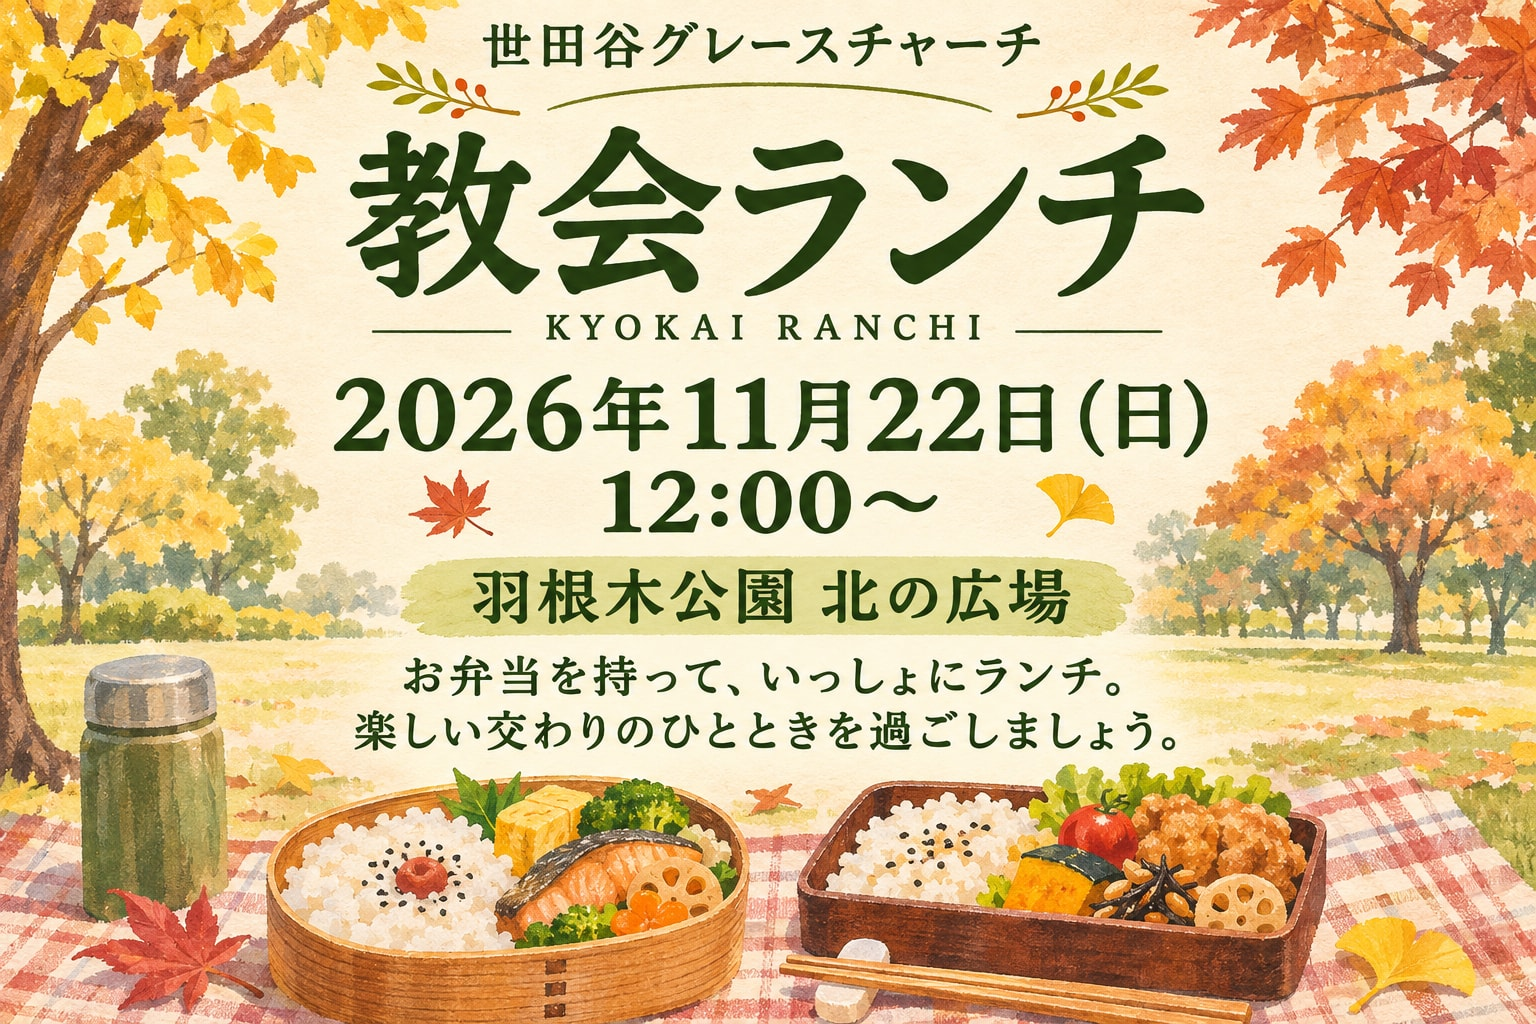
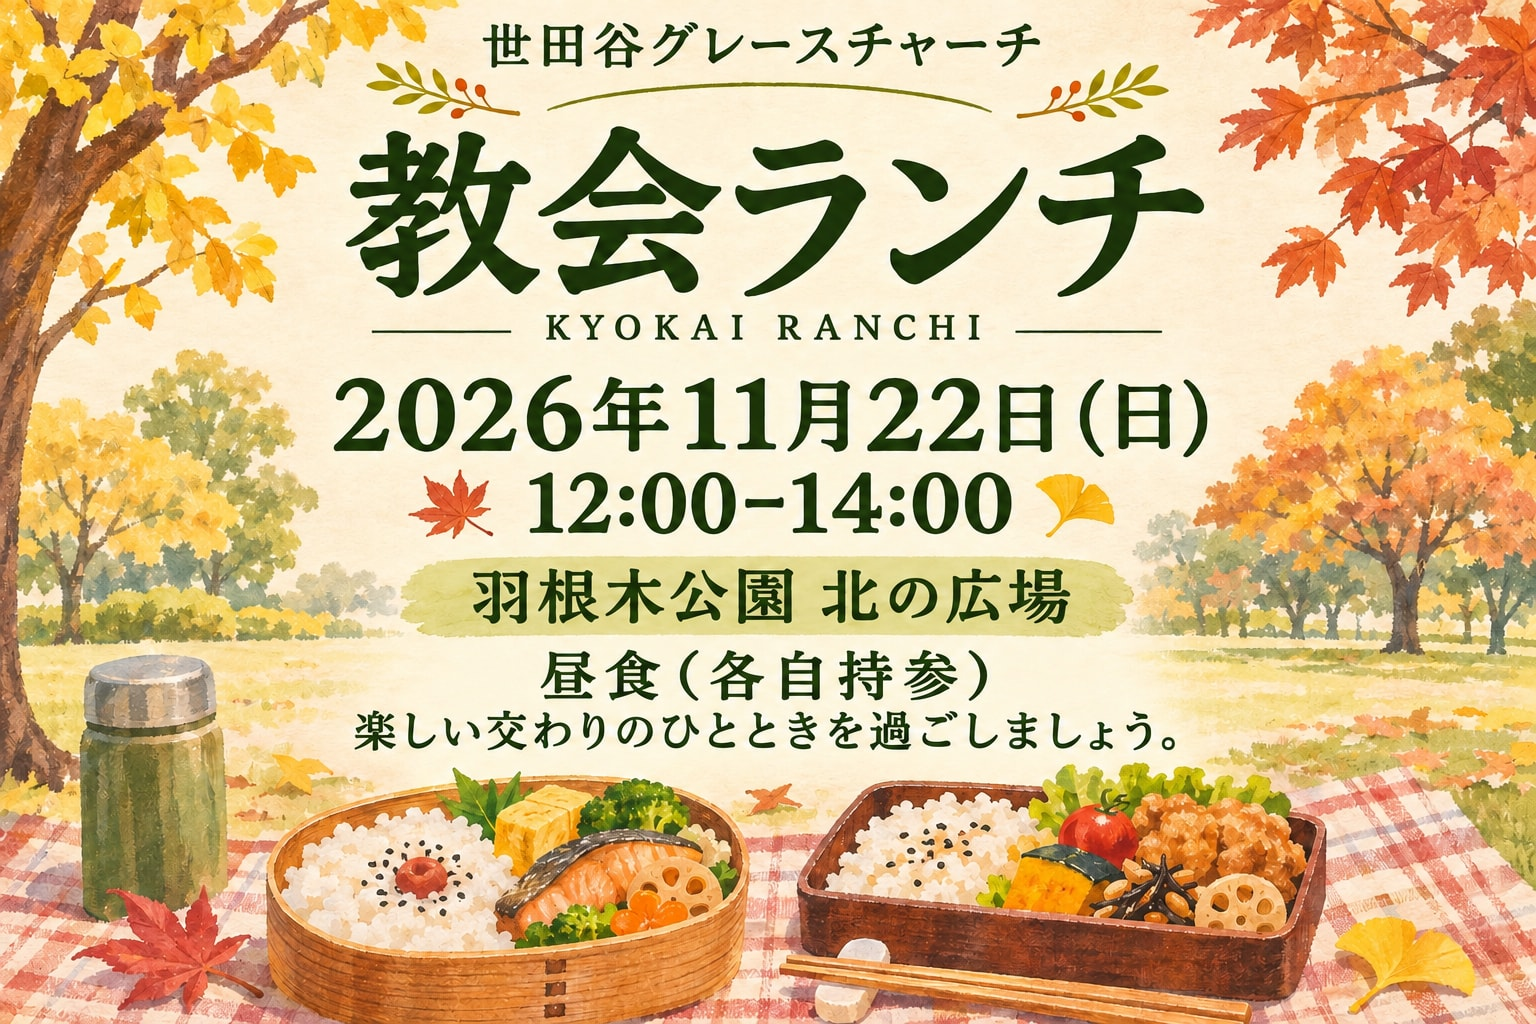
Update church lunch hours, wording, and share image

diff --git a/src/data/events.ts b/src/data/events.ts
@@ -8,10 +8,10 @@ export const churchLunchEvent: (typeof generatedEvents)[number] = {
   slug: "kyokai-ranchi-2026",
   date: "2026-11-22",
   endDate: "",
-  dateLabel: "2026年11月22日（日）12:00〜",
+  dateLabel: "2026年11月22日（日）12:00–14:00",
   title: "教会ランチ",
-  summary: "お弁当を持って、羽根木公園の北の広場でいっしょにランチを楽しみましょう。交わりのひとときを過ごします。",
-  description: "お弁当を持って、いっしょにランチを楽しみましょう。羽根木公園の北の広場に集まり、交わりのひとときを過ごします。\n\n日時：2026年11月22日（日）12:00〜\n集合場所：羽根木公園 北の広場（下の地図をご覧ください）\n持ち物：ご自分のお弁当",
+  summary: "お昼ごはんを持って、羽根木公園の北の広場でいっしょにランチを楽しみましょう。交わりのひとときを過ごします。",
+  description: "お昼ごはんを持って、いっしょにランチを楽しみましょう。羽根木公園の北の広場に集まり、交わりのひとときを過ごします。\n\n日時：2026年11月22日（日）12:00–14:00\n集合場所：羽根木公園 北の広場（下の地図をご覧ください）\n持ち物：昼食（各自持参）",
   imageKey: "kyokai-ranchi-2026",
   imageUrl: "",
   venueUrl: "https://www.google.com/maps/search/?api=1&query=" + encodeURIComponent("羽根木公園 北の広場"),

diff --git a/src/app/App.tsx b/src/app/App.tsx
@@ -468,7 +468,7 @@ function GraceSchoolNotice({ dark = false }: { dark?: boolean }) {
     <div className={`mt-3 border-t pt-3 text-sm leading-6 ${dark ? "border-white/20 text-white" : "border-[#dce4d4] text-[#56645a]"}`}>
       <p>11月22日（日）のグレーススクール（子どもクラス）はお休みです。</p>
       <InternalLink href={`/events/${churchLunchEvent.slug}`} className={`mt-1 inline-block font-medium underline underline-offset-4 ${dark ? "text-[#fce3ac] hover:text-white" : "text-[#586c46] hover:text-[#304034]"}`}>
-        12:00からの教会ランチへ →
+        12:00–14:00の教会ランチへ →
       </InternalLink>
     </div>
   );

diff --git a/source-images/event-kyokai-ranchi-2026-revision-prompt.md b/source-images/event-kyokai-ranchi-2026-revision-prompt.md
@@ -1,0 +1,10 @@
+# Lunch announcement revision
+
+Edited with the built-in image generation tool. Final asset: `src/assets/event-kyokai-ranchi-2026.jpg`.
+
+## Prompt
+
+Edit this existing Japanese church lunch announcement with only two text updates, preserving its autumn gouache artwork, bento illustrations, typography style, colors, composition, dimensions and all other text.
+1. Replace the time "12:00〜" with exactly "12:00–14:00", keeping it clearly readable centered below the date.
+2. Replace the line "お弁当を持って、いっしょにランチ。" with exactly "昼食（各自持参）".
+Keep "楽しい交わりのひとときを過ごしましょう。" unchanged. Keep the event title 教会ランチ, KYOKAI RANCHI, date 2026年11月22日（日）, venue 羽根木公園 北の広場, and church name 世田谷グレースチャーチ unchanged. Do not add anything else.
